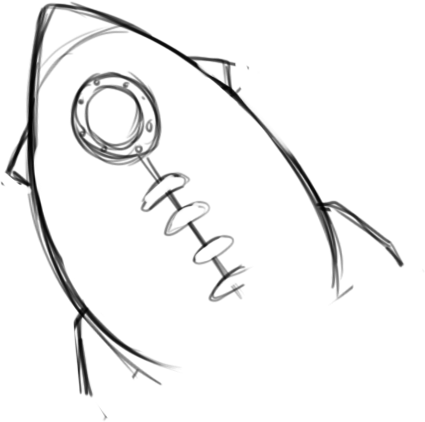
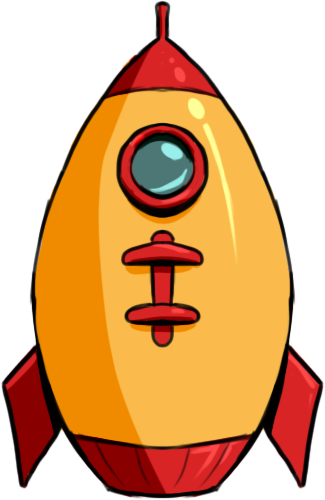
added fixes and new title screen

diff --git a/static/js/scenes/TitleScene.js b/static/js/scenes/TitleScene.js
@@ -9,45 +9,14 @@ export default class TitleScene extends Phaser.Scene {
         console.log("TitleScene.preload()");
         this.titleMusic = this.sound.add("title", { loop: true });
         this.selectSoundFX = this.sound.add("select", { loop: false });
-        this.titleBG = this.add.image(this.sys.game.config.width / 2, this.sys.game.config.height / 2, "sky");
-        this.titleBG = this.add.tileSprite(this.sys.game.config.width / 2, this.sys.game.config.height / 2, this.sys.game.config.width, this.sys.game.config.height, "sky");
-        this.tvGameJamLogo = this.add.image(380, 150, "logo");
-        this.tvGameJamLogo.setDisplaySize(75, 75);
-        this.startButton = this.add.graphics().setInteractive();
-        this.startButtonHelper = this.add.sprite(332, 290).setInteractive();
-        this.startButtonHelper.setDisplaySize(100, 50);
+
+        this.titleImage = this.add.image(this.sys.game.config.width / 2, this.sys.game.config.height / 2, "title");
+
+        this.startButtonHelper = this.add.sprite(303, 168).setInteractive();
+        this.startButtonHelper.setSize(223, 95);
+        this.startButtonHelper.setDisplaySize(223, 95);
         this.startButtonHelper.setOrigin(0);
 
-        var scene = this;
-        WebFont.load({
-            custom: {
-                families: [ 'Brady Bunch Remastered' ]
-            },
-            active: function ()
-            {
-                scene.add.text(100, 200, "The Football Launch", { fontFamily: "Brady Bunch Remastered", fontSize: 80, color: '#ffffff' }).setShadow(2, 2, "#333333", 2, false, true);
-
-                scene.startButtonText = scene.add.text(350, 300, "Start", { fontFamily: "Brady Bunch Remastered", fontSize: 30, color: '#ffffff' }).setShadow(2, 2, "#333333", 2, false, true);
-
-                scene.add.text(100, 350, "Art", { fontFamily: "Brady Bunch Remastered", fontSize: 30, color: '#ffffff' }).setShadow(2, 2, "#333333", 2, false, true);
-                scene.add.text(100, 380, "Shoze", { fontFamily: "Brady Bunch Remastered", fontSize: 24, color: '#ffffff' }).setShadow(2, 2, "#333333", 2, false, true);
-
-                scene.add.text(600, 350, "Dev", { fontFamily: "Brady Bunch Remastered", fontSize: 30, color: '#ffffff' }).setShadow(2, 2, "#333333", 2, false, true);
-                scene.add.text(600, 380, "Shawn Recinto", { fontFamily: "Brady Bunch Remastered", fontSize: 24, color: '#ffffff' }).setShadow(2, 2, "#333333", 2, false, true);
-                scene.add.text(600, 410, "Indian Man", { fontFamily: "Brady Bunch Remastered", fontSize: 24, color: '#ffffff' }).setShadow(2, 2, "#333333", 2, false, true);
-
-                scene.add.text(100, 450, "UX", { fontFamily: "Brady Bunch Remastered", fontSize: 30, color: '#ffffff' }).setShadow(2, 2, "#333333", 2, false, true);
-                scene.add.text(100, 480, "Shoze", { fontFamily: "Brady Bunch Remastered", fontSize: 24, color: '#ffffff' }).setShadow(2, 2, "#333333", 2, false, true);
-                scene.add.text(100, 510, "Diego", { fontFamily: "Brady Bunch Remastered", fontSize: 24, color: '#ffffff' }).setShadow(2, 2, "#333333", 2, false, true);
-
-                scene.add.text(600, 450, "Design", { fontFamily: "Brady Bunch Remastered", fontSize: 30, color: '#ffffff' }).setShadow(2, 2, "#333333", 2, false, true);
-                scene.add.text(600, 480, "Indian Man", { fontFamily: "Brady Bunch Remastered", fontSize: 24, color: '#ffffff' }).setShadow(2, 2, "#333333", 2, false, true);
-
-                scene.add.text(320, 400, "Music/Sound", { fontFamily: "Brady Bunch Remastered", fontSize: 30, color: '#ffffff' }).setShadow(2, 2, "#333333", 2, false, true);
-                scene.add.text(320, 430, "Monika Zee", { fontFamily: "Brady Bunch Remastered", fontSize: 24, color: '#ffffff' }).setShadow(2, 2, "#333333", 2, false, true);
-
-            }
-        });
     }
 
     create () {
@@ -55,26 +24,8 @@ export default class TitleScene extends Phaser.Scene {
 
         this.titleMusic.play();
 
-        this.startButton = this.add.graphics().setInteractive();
-        this.startButton.lineStyle(2, 0xffffff, 1);
-        this.startButton.strokeRoundedRect(332, 290, 100, 50, 15);
-
-        this.input.on('pointerover', function (pointer, button){
-            //console.log("over");
-            this.startButton.lineStyle(2, 0xffff00, 1);
-            this.startButtonText.setColor("#ffff00");
-            this.startButton.strokeRoundedRect(332, 290, 100, 50, 15);
-        }, this);
-
-        this.input.on('pointerout', function (pointer, button){
-            //console.log("out");
-            this.startButton.lineStyle(2, 0xffffff, 1);
-            this.startButtonText.setColor("#ffffff");
-            this.startButton.strokeRoundedRect(332, 290, 100, 50, 15);
-        }, this);
-
         this.input.on('pointerdown', function (pointer, button){
-            if(button.length > 0) { // Not weorried about other buttons since there is only one
+            if(button.length > 0) { // Not worried about other buttons since there is only one
                 console.log("clicked start");
                 this.selectSoundFX.play();
                 this.titleMusic.stop();
@@ -83,7 +34,4 @@ export default class TitleScene extends Phaser.Scene {
         }, this);
     }
 
-    update () {
-        this.titleBG.tilePositionX -= 5;
-    }
 };

diff --git a/static/js/scenes/PreloaderScene.js b/static/js/scenes/PreloaderScene.js
@@ -44,6 +44,16 @@ export default class PreloaderScene extends Phaser.Scene {
 
     create () {
         console.log("PreloaderScene.create()");
+        WebFont.load({
+            custom: {
+                families: [ 'Brady Bunch Remastered' ]
+            },
+            active: function ()
+            {
+
+            }
+        });
+
         this.scene.start("Title");
     }
 
@@ -65,13 +75,13 @@ export default class PreloaderScene extends Phaser.Scene {
         this.load.image("ui_ship", "./assets/images/ui_ship.png");
         this.load.image("ui_spec", "./assets/images/ui_spec.png");
         this.load.image("ui_meter", "./assets/images/ui_nose.png");
-        this.load.image('spaceship', './assets/images/spaceship.png');
         this.load.image('intro_01', './assets/images/01.jpg');
         this.load.image('intro_02', './assets/images/02.jpg');
         this.load.image('intro_03', './assets/images/03.jpg');
         this.load.image('intro_prof', './assets/images/proff.png');
         this.load.image('outtro', './assets/images/end_screen_win.png');
         this.load.image('gameover', './assets/images/end_screen_fail.png');
+        this.load.image('title', './assets/images/title_screen.jpg');
 
         this.load.audio("title", "./assets/audio/title.mp3");
         this.load.audio("intro", "./assets/audio/intro.wav");

diff --git a/static/js/scenes/GameHudScene.js b/static/js/scenes/GameHudScene.js
@@ -24,21 +24,21 @@ export default class GameHudScene extends Phaser.Scene {
         this.miniMap = this.add.image(0, 500, "ui_ship");
         this.miniMap.setOrigin(0);
 
-        this.miniMe = this.add.image(740, 535, "ui_spec");
+        this.miniMe = this.add.image(740, 552, "ui_spec");
         //this.miniMe = this.add.image(100, 535, "ui_spec");
 
-        this.currentTimeIcon = this.add.image(760, 35, "ui_ball");  //82x57
+        this.currentTimeIcon = this.add.image(760, 50, "ui_ball");  //82x57
         //Start at 760px, end at 130px = 630 segments to move for a total of 10.5 segments (630px / 60 seconds)
         //this.currentTimeIcon = this.add.image(130, 35, "ui_ball_2");
         this.currentTimeIcon.setDepth(10);
         this.maxTimeLimitInSeconds = 60;
         this.previousMove = 0;
         this.deltaMove = 0;
-
+        /*
         this.deadlineBar = this.add.graphics();
         this.deadlineBar.fillStyle(0xff0000, 1);
         this.deadlineBar.fillRoundedRect(127, 50, 4, 40, 2);
-
+        */
         this.timerEvent = this.time.addEvent({ delay: this.maxTimeLimitInSeconds * 1000, loop: false });
 
 

diff --git a/static/js/scenes/GameScene.js b/static/js/scenes/GameScene.js
@@ -165,8 +165,8 @@ export default class GameScene extends Phaser.Scene {
         });
         this.spaceship.setStatic(true);
         this.spaceship.setIgnoreGravity(true);
-        this.spaceship.setDisplaySize(150,150);
-        this.spaceship.setDepth(15);
+        //this.spaceship.setDisplaySize(150,150);
+        this.spaceship.setDepth(24);
         this.spaceship.xType = "spaceship";
 
         this.collisionCategory = this.matter.world.nextCategory();
@@ -305,7 +305,7 @@ export default class GameScene extends Phaser.Scene {
             this.playerSprite.setX(this.player.x);
             this.playerSprite.setY(this.player.y);
 
-            this.back.tilePositionX -= 40.5;
+            this.back.tilePositionX -= 100;
             //this.front.tilePositionX = -camera.scrollX
 
             if(this.cursor.left.isDown && !this.hitByParticle){

diff --git a/static/index.html b/static/index.html
@@ -17,19 +17,10 @@
 
             }
 
-            .gameCanvasContainer {
-                text-align: center;
-            }
-
-            #gameCanvas {
-                display: inline-block
-            }
         </style>
         <script type="module" src="./js/main.js"></script>
     </head>
     <body>
-        <div class="gameCanvasContainer">
-            <div id="gameCanvas"></div>
-        </div>
+        <div id="gameCanvas"></div>
     </body>
 </html>

diff --git a/static/js/scenes/GameOverScene.js b/static/js/scenes/GameOverScene.js
@@ -36,8 +36,8 @@ export default class GameOverScene extends Phaser.Scene {
             this.keyPressed = true;
             this.selectSoundFX.play();
             this.gameoverMusic.stop();
-            this.scene.start("Title");
+            this.scene.start("Game");
         }
     }
 
-};
+};7
